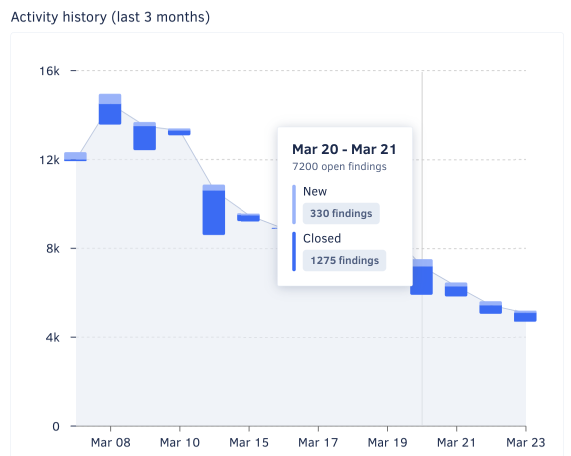
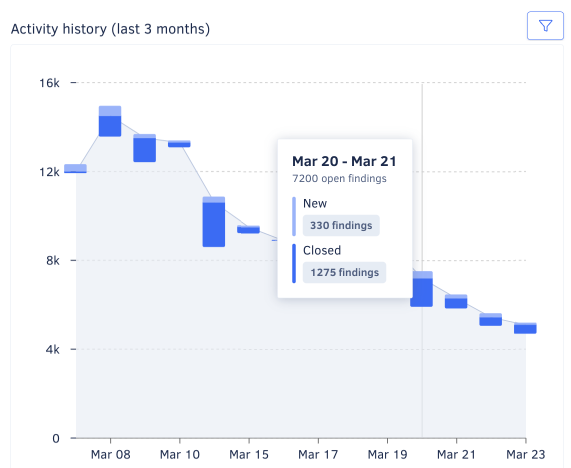
feat: Document activity history filters

diff --git a/docs/organizations/managing-security-and-risk.md b/docs/organizations/managing-security-and-risk.md
@@ -60,6 +60,8 @@ For a detailed view of the distribution on a specific week, hover over the graph
 
 The **Activity history** graph shows weekly counts of open and closed findings over the past three months, overlaid on the overall open findings trend. It complements the **Open findings history** graph with more information, such as the volume of findings addressed each week and a visual representation of the new/closed ratio.
 
+To filter the graph by finding severity, use the drop-down in the top right-hand corner of the panel.
+
 For a detailed view of the counts on a specific week, hover over the graph.
 
 ![Security and risk management activity history panel](images/security-risk-management-overview-history-activity.png)
